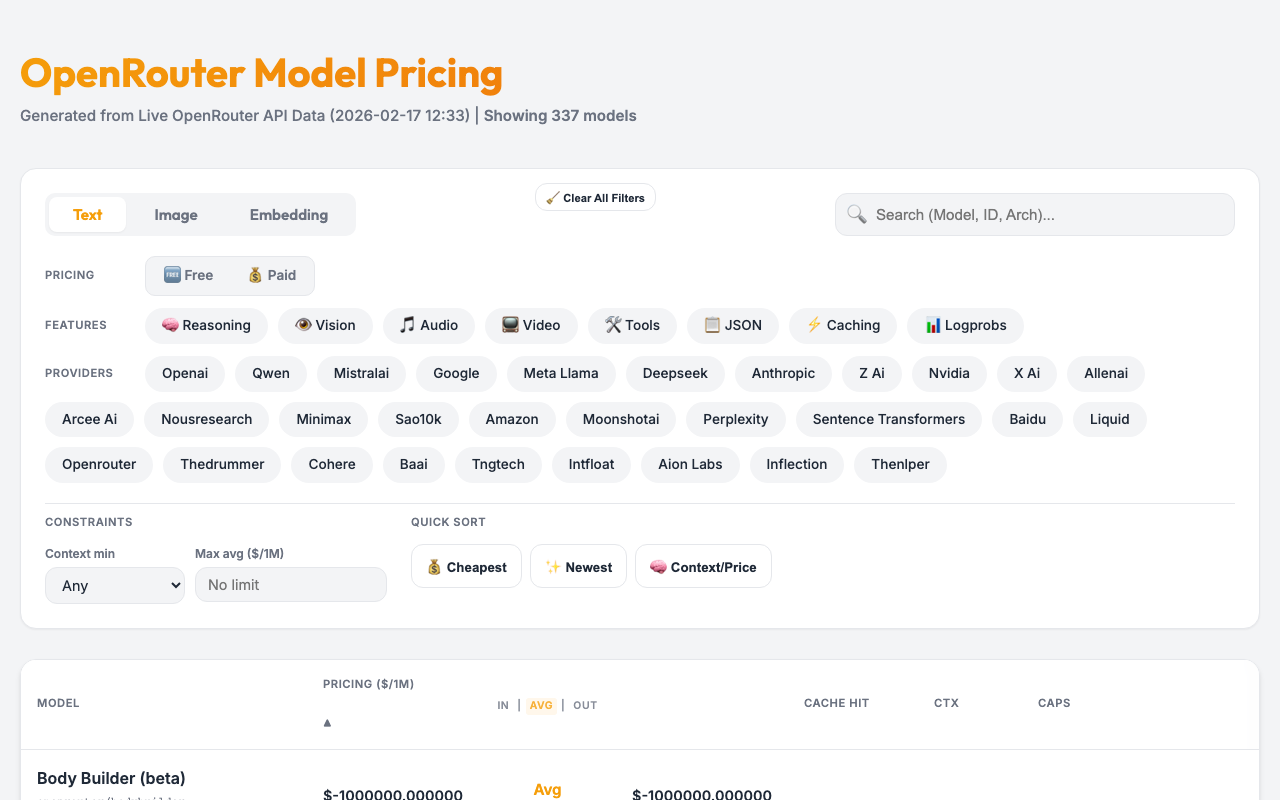
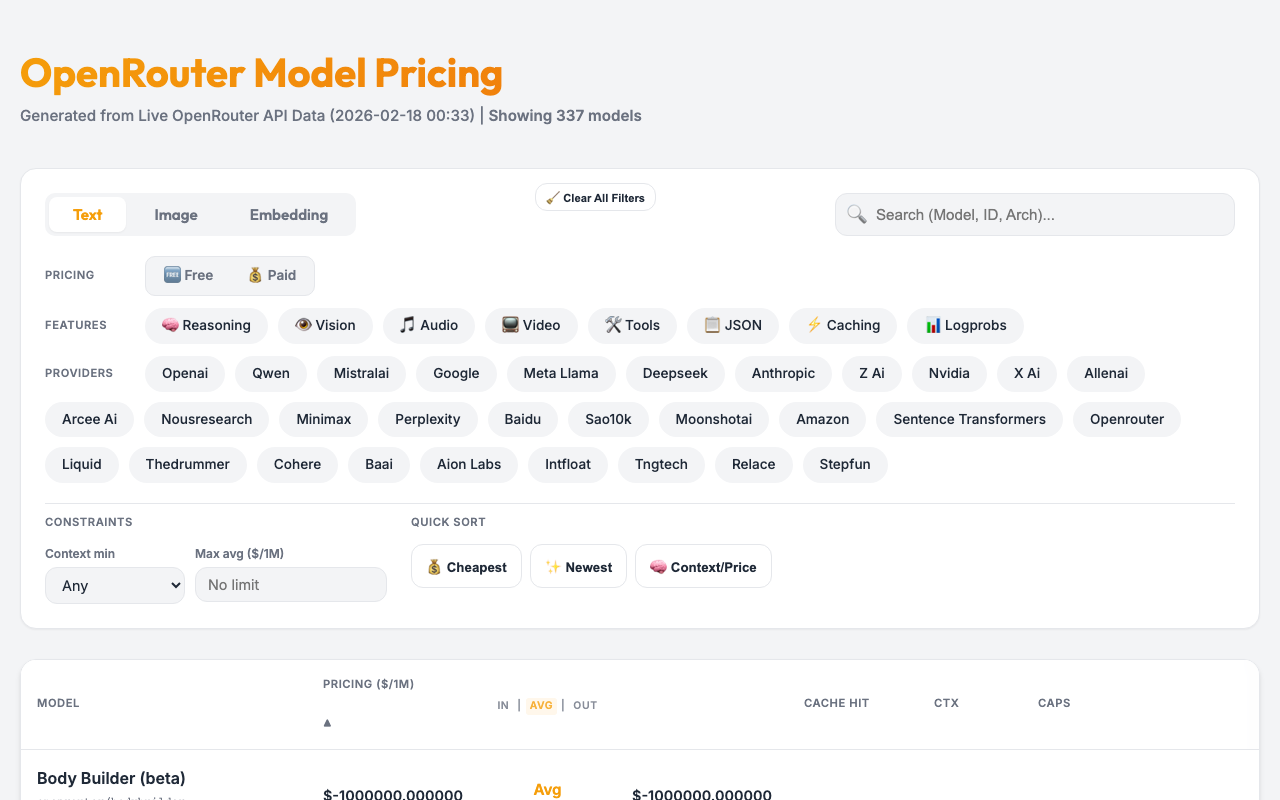
chore: automated pricing update (2026-02-18 00:33:13)
🔄 Changed Models (5): minimax/minimax-m2.5, qwen/qwen3-coder-next, qwen/qwen3.5-397b-a17b, z-ai/glm-4.6, z-ai/glm-4.7

diff --git a/docs/index.html b/docs/index.html
@@ -634,7 +634,7 @@
     <div class="container">
         <header>
             <h1>OpenRouter Model Pricing</h1>
-            <div class="meta">Generated from Live OpenRouter API Data (2026-02-17 12:33)</div>
+            <div class="meta">Generated from Live OpenRouter API Data (2026-02-18 00:33)</div>
         </header>
 
         <div class="controls">
@@ -773,8 +773,8 @@
         "instruct_type": null
       },
       "pricing": {
-        "prompt": "0.0000006",
-        "completion": "0.0000036"
+        "prompt": "0.00000015",
+        "completion": "0.000001"
       },
       "top_provider": {
         "context_length": 262144,
@@ -783,15 +783,22 @@
       },
       "per_request_limits": null,
       "supported_parameters": [
+        "frequency_penalty",
         "include_reasoning",
+        "logit_bias",
         "max_tokens",
+        "min_p",
         "presence_penalty",
         "reasoning",
+        "repetition_penalty",
         "response_format",
         "seed",
+        "stop",
+        "structured_outputs",
         "temperature",
         "tool_choice",
         "tools",
+        "top_k",
         "top_p"
       ],
       "default_parameters": {
@@ -821,13 +828,12 @@
         "instruct_type": null
       },
       "pricing": {
-        "prompt": "0.0000003",
-        "completion": "0.0000012",
-        "input_cache_read": "0.000000029"
+        "prompt": "0",
+        "completion": "0"
       },
       "top_provider": {
         "context_length": 196608,
-        "max_completion_tokens": null,
+        "max_completion_tokens": 196608,
         "is_moderated": false
       },
       "per_request_limits": null,
@@ -837,8 +843,11 @@
         "logit_bias",
         "logprobs",
         "max_tokens",
+        "min_p",
+        "parallel_tool_calls",
         "presence_penalty",
         "reasoning",
+        "reasoning_effort",
         "repetition_penalty",
         "response_format",
         "seed",
@@ -1089,9 +1098,9 @@
         "instruct_type": null
       },
       "pricing": {
-        "prompt": "0.00000007",
-        "completion": "0.0000003",
-        "input_cache_read": "0.000000035"
+        "prompt": "0.00000012",
+        "completion": "0.00000075",
+        "input_cache_read": "0.00000006"
       },
       "top_provider": {
         "context_length": 262144,
@@ -2101,9 +2110,9 @@
         "instruct_type": null
       },
       "pricing": {
-        "prompt": "0.0000004",
-        "completion": "0.0000015",
-        "input_cache_read": "0.0000002"
+        "prompt": "0.00000038",
+        "completion": "0.0000017",
+        "input_cache_read": "0.00000019"
       },
       "top_provider": {
         "context_length": 202752,
@@ -5264,9 +5273,9 @@
         "instruct_type": null
       },
       "pricing": {
-        "prompt": "0.00000035",
-        "completion": "0.0000015",
-        "input_cache_read": "0.000000175"
+        "prompt": "0.00000034",
+        "completion": "0.0000017",
+        "input_cache_read": "0.00000017"
       },
       "top_provider": {
         "context_length": 202752,
@@ -18366,7 +18375,7 @@
   ],
   "other": []
 };
-        window.providerOptions = ['openai', 'qwen', 'mistralai', 'google', 'meta-llama', 'deepseek', 'anthropic', 'z-ai', 'nvidia', 'x-ai', 'allenai', 'arcee-ai', 'nousresearch', 'minimax', 'sao10k', 'amazon', 'moonshotai', 'perplexity', 'sentence-transformers', 'baidu', 'liquid', 'openrouter', 'thedrummer', 'cohere', 'baai', 'tngtech', 'intfloat', 'aion-labs', 'inflection', 'thenlper', 'inception', 'microsoft', 'neversleep', 'morph', 'stepfun', 'relace', 'bytedance-seed', 'anthracite-org', 'deepcogito', 'upstage', 'nex-agi', 'bytedance', 'undi95', 'raifle', 'writer', 'tencent', 'ibm-granite', 'eleutherai', 'prime-intellect', 'switchpoint', 'alfredpros', 'alibaba', 'mancer', 'opengvlab', 'gryphe', 'cognitivecomputations', 'xiaomi', 'kwaipilot', 'meituan', 'alpindale', 'essentialai', 'ai21'];
+        window.providerOptions = ['openai', 'qwen', 'mistralai', 'google', 'meta-llama', 'deepseek', 'anthropic', 'z-ai', 'nvidia', 'x-ai', 'allenai', 'arcee-ai', 'nousresearch', 'minimax', 'perplexity', 'baidu', 'sao10k', 'moonshotai', 'amazon', 'sentence-transformers', 'openrouter', 'liquid', 'thedrummer', 'cohere', 'baai', 'aion-labs', 'intfloat', 'tngtech', 'relace', 'stepfun', 'thenlper', 'microsoft', 'morph', 'inception', 'inflection', 'neversleep', 'bytedance-seed', 'meituan', 'alpindale', 'alibaba', 'nex-agi', 'eleutherai', 'undi95', 'gryphe', 'ai21', 'prime-intellect', 'deepcogito', 'tencent', 'opengvlab', 'ibm-granite', 'switchpoint', 'upstage', 'cognitivecomputations', 'xiaomi', 'writer', 'kwaipilot', 'alfredpros', 'raifle', 'mancer', 'bytedance', 'anthracite-org', 'essentialai'];
         let currentTab = 'text';
         let sortKey = 'price_avg';
         let sortAsc = true;
